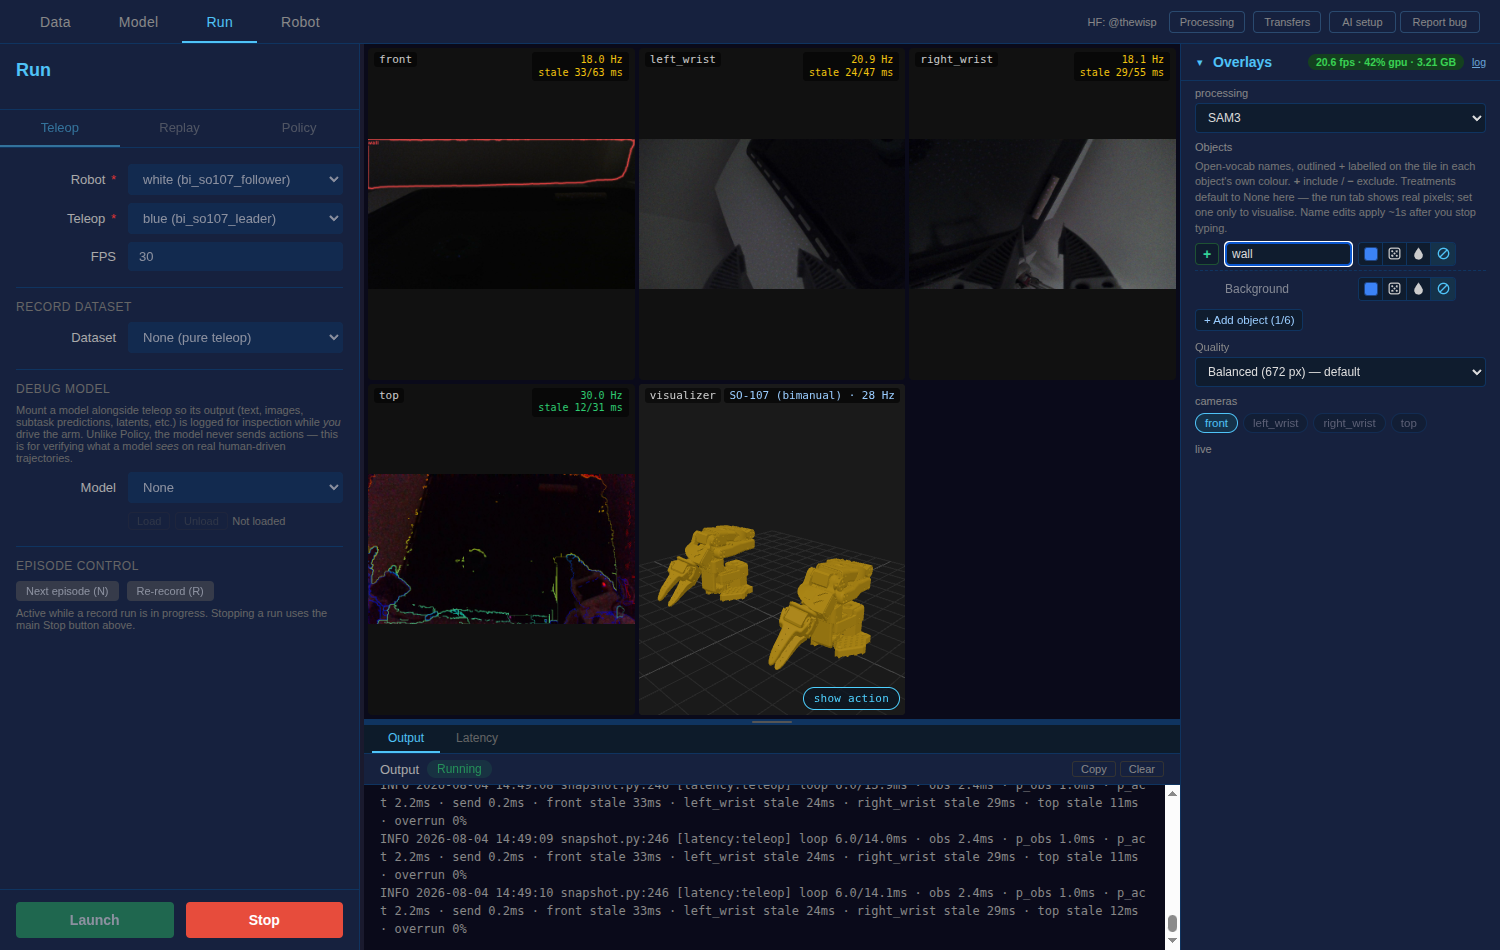
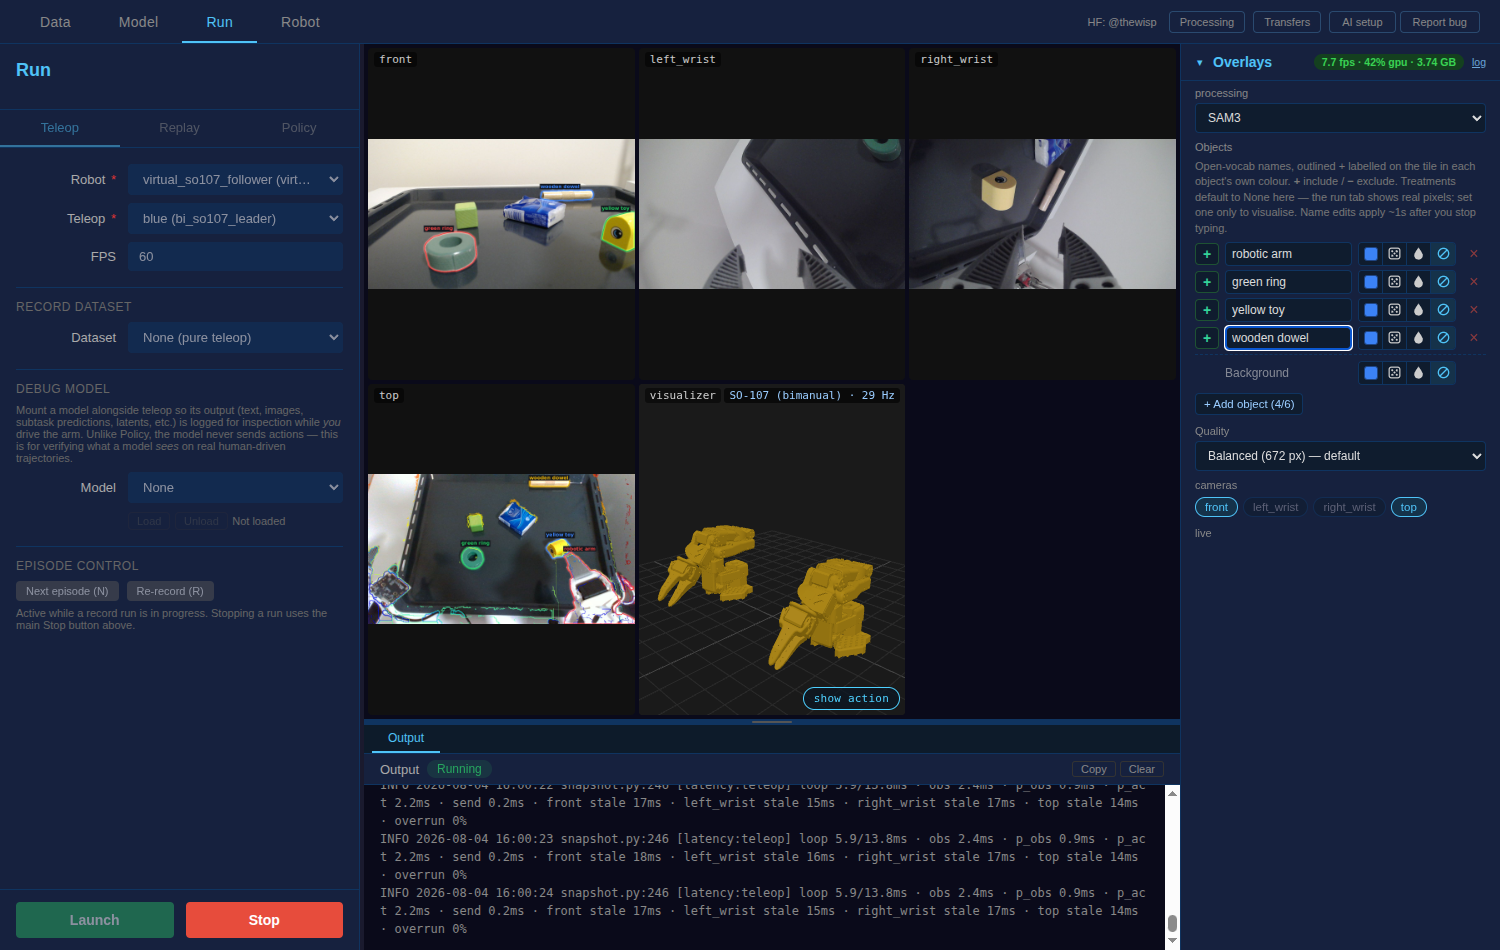
fix(overlays): make the run-tab overlay actually draw on the live tiles
Trying to photograph the unified rows on a real SO-107 teleop session exposed a
defect the synthetic capture could not: the worker was detecting every object
correctly and the badge read a healthy 7-8 fps, but the camera tiles showed no
chrome at all. The frontend's own diagnostic said so on every poll —
`drawn=[] blank=['front', 'top']` — while the worker log for the same instant
read `seed[front]: detected {'green ring': 39002, 'yellow toy': 22846,
'wooden dowel': 10823}`. Fetching /api/overlays/live/frame/front by hand returned
a perfect overlay. So the pixels were right and the tile was empty.

Two causes, one visible symptom.

The run tile loop assigned `ov.src` on every 50 ms tick. Reassigning an <img> src
ABORTS the in-flight download, so an overlay that needs longer than one tick to
arrive is cancelled and restarted forever and never completes — naturalWidth
stays 0 and nothing is ever painted. This is the same failure the data tab hit
under a throttled link and already fixed; the run tab simply never adopted the
remedy. It now uses that same OverlayPullGate.createLoader(): at most one load
in flight per camera, newer requests replace the pending slot, completion starts
the next. onload/onerror are bound once at element creation — reassigning them
per tick would orphan the loader's bookkeeping.

The overlays were also ~9x larger than they need to be. A run-tab overlay is a
transparent diff — measured 94.2% fully transparent — but the compositor leaves
[…]

diff --git a/src/lerobot/gui/static/run.js b/src/lerobot/gui/static/run.js
@@ -2199,6 +2199,18 @@ async function startObsStreamViewer() {
 
     const imgElements = {};
     const overlayElements = {};  // key -> live Overlays result <img> over each tile
+    // Completion-gated latest-wins overlay loading, the same helper the data tab uses.
+    // Without it this tile loop assigned ov.src every tick, and reassigning an <img>
+    // src ABORTS the in-flight download: an overlay that takes longer than one tick to
+    // arrive never finishes, so the tile shows no overlay at all while the worker fps
+    // badge reads healthy. Observed on real teleop as drawn=[] blank=['front','top']
+    // in the live/diag log while the worker was detecting every object correctly.
+    const overlayLoader = window.OverlayPullGate ? window.OverlayPullGate.createLoader() : null;
+    const nextOverlay = (key, ov) => {
+        if (!overlayLoader) return;
+        const url = overlayLoader.done(key);
+        if (url) ov.src = url;
+    };
     for (const key of camKeys) {
         const cell = document.createElement('div');
         cell.style.cssText = 'position: relative; overflow: hidden; background: #111; border-radius: 4px;';
@@ -2212,8 +2224,10 @@ async function startObsStreamViewer() {
         const ov = document.createElement('img');
         ov.className = 'overlay-layer';
         ov.alt = '';
-        ov.onload = () => { ov.style.display = 'block'; };
-        ov.onerror = () => { ov.style.display = 'none'; };
+        // onload/onerror are bound ONCE, here: the tick below must never reassign them,
+        // or the loader's in-flight bookkeeping is orphaned and every camera wedges.
+        ov.onload = () => { ov.style.display = 'block'; nextOverlay(key, ov); };
+        ov.onerror = () => { ov.style.display = 'none'; nextOverlay(key, ov); };
         cell.appendChild(ov);
         overlayElements[key] = ov;
 
@@ -2281,8 +2295,14 @@ async function startObsStreamViewer() {
             const ov = overlayElements[key];
             if (ov) {
                 const url = (window.Overlays && window.Overlays.liveFrameUrl) ? window.Overlays.liveFrameUrl(key, seq) : null;
-                if (url) ov.src = url;
-                else { ov.style.display = 'none'; ov.removeAttribute('src'); }
+                if (url) {
+                    const now = overlayLoader ? overlayLoader.request(key, url) : url;
+                    if (now) ov.src = now;  // else: queued as pending, assigned on completion
+                } else {
+                    ov.style.display = 'none';
+                    ov.removeAttribute('src');
+                    if (overlayLoader) overlayLoader.reset();
+                }
             }
         }
         _pollSubtaskOverlay();

diff --git a/src/lerobot/gui/static/index.html b/src/lerobot/gui/static/index.html
@@ -677,7 +677,7 @@ nebius iam auth-public-key generate \
     <script src="/static/add_feature_dialog.js?v=2"></script>
     <script src="/static/charts.js?v=3"></script>
     <script src="/static/robot.js?v=24"></script>
-    <script src="/static/run.js?v=50"></script>
+    <script src="/static/run.js?v=51"></script>
     <script src="/static/overlay_gate.js?v=1"></script>
     <script src="/static/overlay_pull_gate.js?v=2"></script>
     <script src="/static/camera_release.js?v=1"></script>

diff --git a/tests/gui/test_overlays.py b/tests/gui/test_overlays.py
@@ -86,6 +86,32 @@ def test_png_roundtrip_preserves_rgba():
     np.testing.assert_array_equal(back, rgba)
 
 
+def test_png_zeroes_rgb_under_fully_transparent_pixels():
+    """A transparent-diff overlay keeps the whole camera frame in its RGB planes, so PNG
+    used to compress a full photo the viewer never sees. Measured on a live run-tab
+    overlay: 782 KB vs 88 KB. Oversized overlays could not finish downloading before the
+    next pull replaced them, so the tile drew nothing at all."""
+    rgba = np.zeros((32, 32, 4), dtype=np.uint8)
+    rgba[..., :3] = 200  # a "photo" everywhere...
+    rgba[8:12, 8:12, 3] = 255  # ...visible only in this small patch
+    png = overlays._png(rgba)
+    back = np.array(Image.open(io.BytesIO(png)))
+    invisible = back[..., 3] == 0
+    assert invisible.any(), "test needs transparent pixels to be meaningful"
+    assert not back[invisible][..., :3].any(), "RGB must be zeroed where alpha is 0"
+    np.testing.assert_array_equal(back[8:12, 8:12], rgba[8:12, 8:12])  # visible pixels untouched
+
+
+def test_png_leaves_a_fully_opaque_overlay_alone():
+    """The zeroing must be scoped to invisible pixels: a data-tab WYSIWYG composite is
+    opaque everywhere and must survive byte-for-byte."""
+    rgba = np.zeros((8, 8, 4), dtype=np.uint8)
+    rgba[..., :3] = 123
+    rgba[..., 3] = 255
+    back = np.array(Image.open(io.BytesIO(overlays._png(rgba))))
+    np.testing.assert_array_equal(back, rgba)
+
+
 def test_proc_sm_none_is_zero():
     assert overlays._proc_sm(None) == 0
 

diff --git a/src/lerobot/gui/api/overlays.py b/src/lerobot/gui/api/overlays.py
@@ -220,10 +220,26 @@ def _frame_rgb(item: dict, cam: str) -> np.ndarray:
 
 
 def _png(rgba: np.ndarray) -> bytes:
-    """Encode an HxWx4 RGBA overlay to PNG (preserves transparency)."""
+    """Encode an HxWx4 RGBA overlay to PNG (preserves transparency).
+
+    Pre: HxWx4 uint8 RGBA. Post: PNG bytes whose visible result is unchanged —
+    only pixels the viewer cannot see are rewritten.
+
+    Fully-transparent pixels keep whatever RGB the compositor left there, which for
+    an overlay that is mostly a transparent diff is the WHOLE camera frame: PNG then
+    compresses a full photo nobody will ever see. Measured on a live 1280x720 run-tab
+    overlay that is 94.2% transparent: 782 KB as-is vs 88 KB with the invisible RGB
+    zeroed — 8.8x for pixels alpha discards anyway. Size matters here because these
+    are pulled per tile continuously, and an overlay that cannot finish downloading
+    before the next pull replaces it never draws at all.
+    """
     from PIL import Image
 
     assert rgba.ndim == 3 and rgba.shape[2] == 4, f"expected HxWx4 RGBA, got {rgba.shape}"
+    invisible = rgba[..., 3] == 0
+    if invisible.any():
+        rgba = rgba.copy()  # never mutate the caller's shm-backed view
+        rgba[invisible] = 0
     buf = io.BytesIO()
     Image.fromarray(rgba, "RGBA").save(buf, format="PNG")
     return buf.getvalue()
